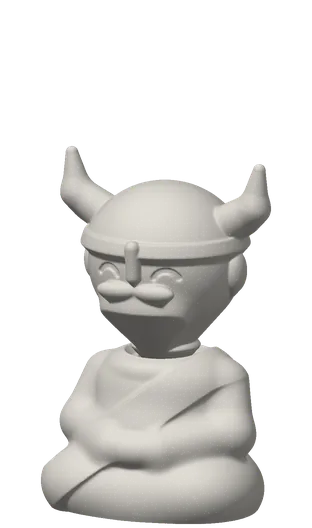
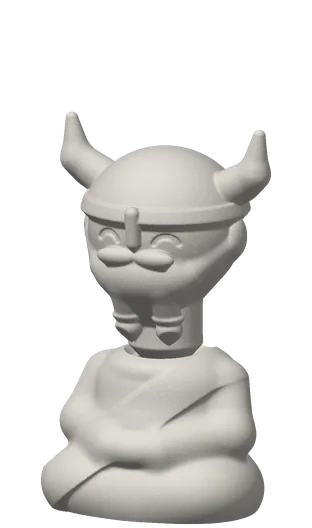
Viking: two-tail beard on a short neck (D-039)
The beard runs up the jaw and ends in two banded tails that lie against
the neck. Old head kept as viking-short. All 45 parts pass the check.

Changed region(s): [[0.1731, 0.2121, 0.8654, 0.6667]]

diff --git a/assets/site.js b/assets/site.js
@@ -6,7 +6,7 @@
   var S = window.QUIET_COMPANY;
   // Seated height in mm for the heads that stand well above the rest; standing and walking add 25.
   var TALL_MM = { fish: 116, glasses: 118, cyclops: 123, longhair: 122, beard: 123, ponytail: 124, curls: 130, bun: 134, troll: 122, husky: 123, lion: 123, robot: 123, quiff: 125, ghost: 125, minotaur: 126, 
-                  alien: 128, jester: 131, dragon: 132, bunny: 140, elf: 140, wizard: 140, giraffe: 148, unicorn: 155 };
+                  alien: 128, viking: 130, jester: 131, dragon: 132, bunny: 140, elf: 140, wizard: 140, giraffe: 148, unicorn: 155 };
   var HEAD_IDS = Object.keys(S.HEADS), BODY_IDS = Object.keys(S.BODIES);
 
   function el(tag, cls, text) {
